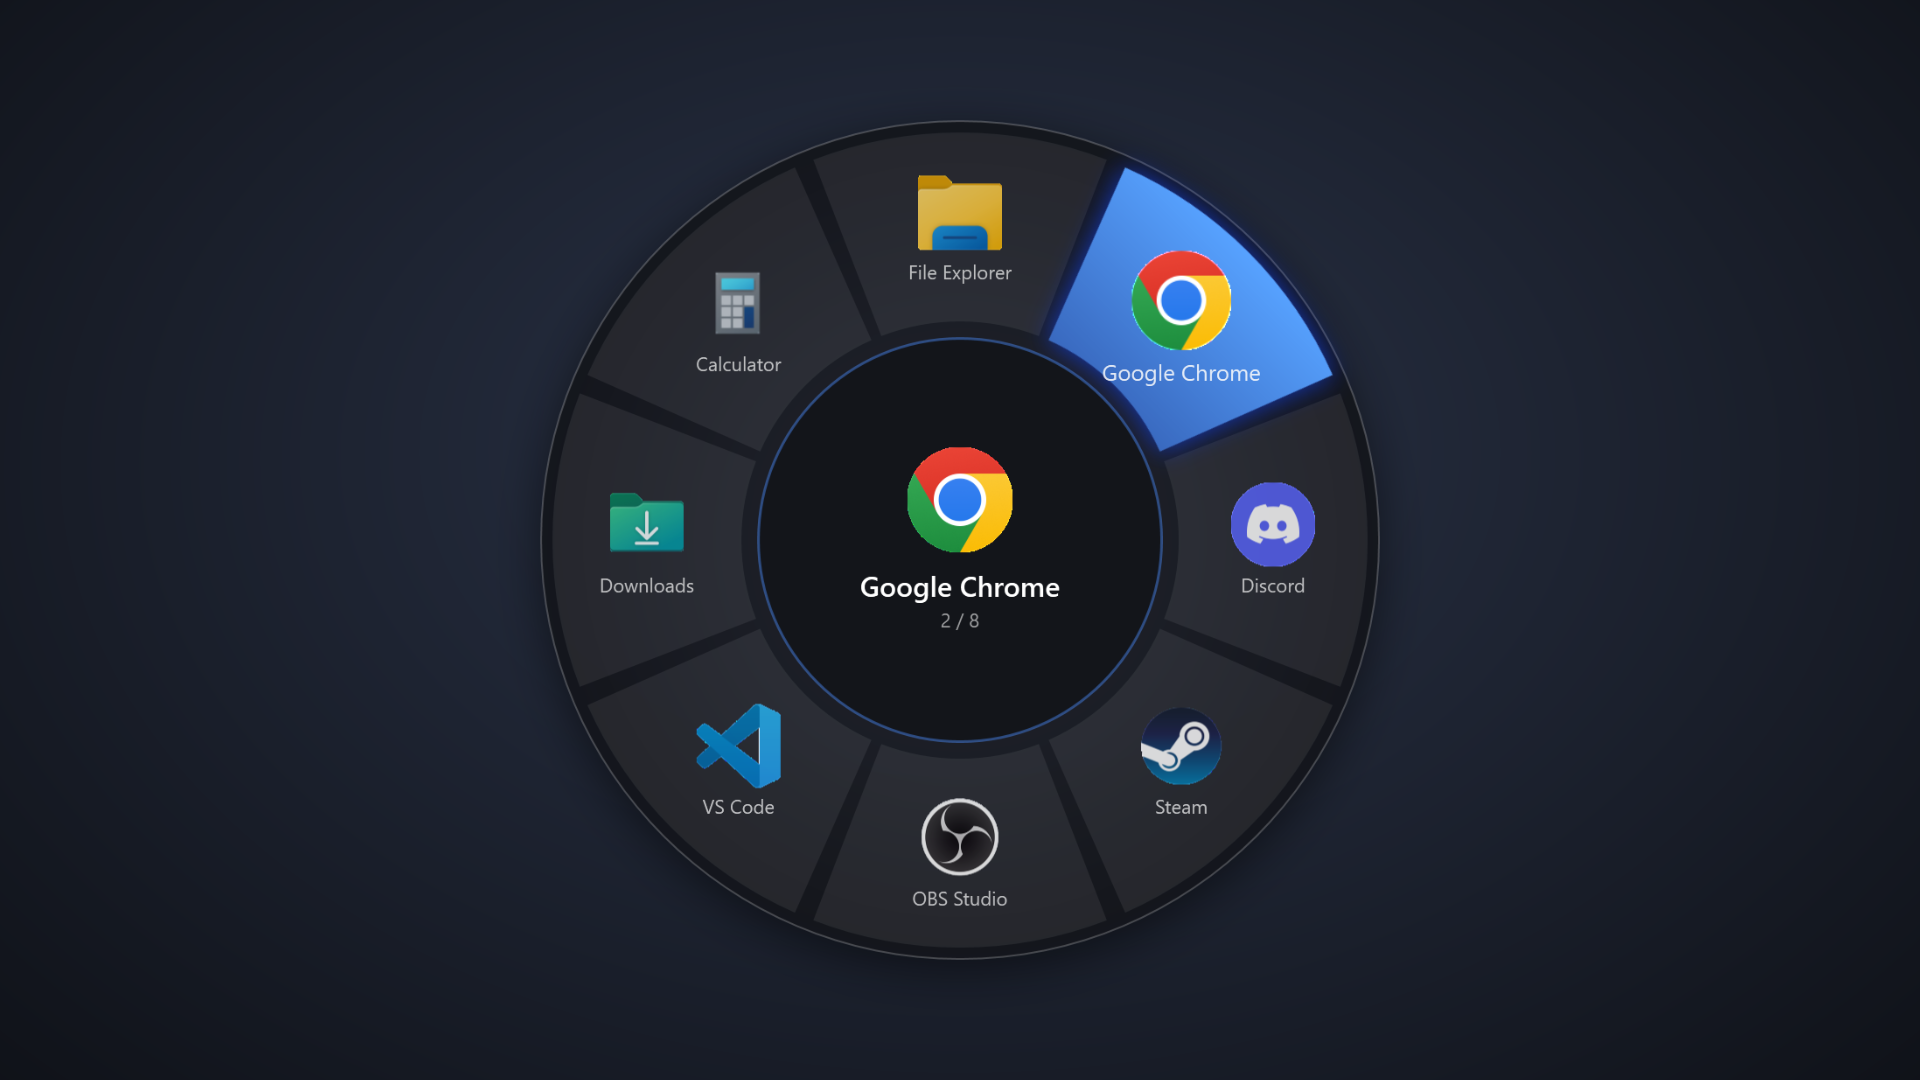
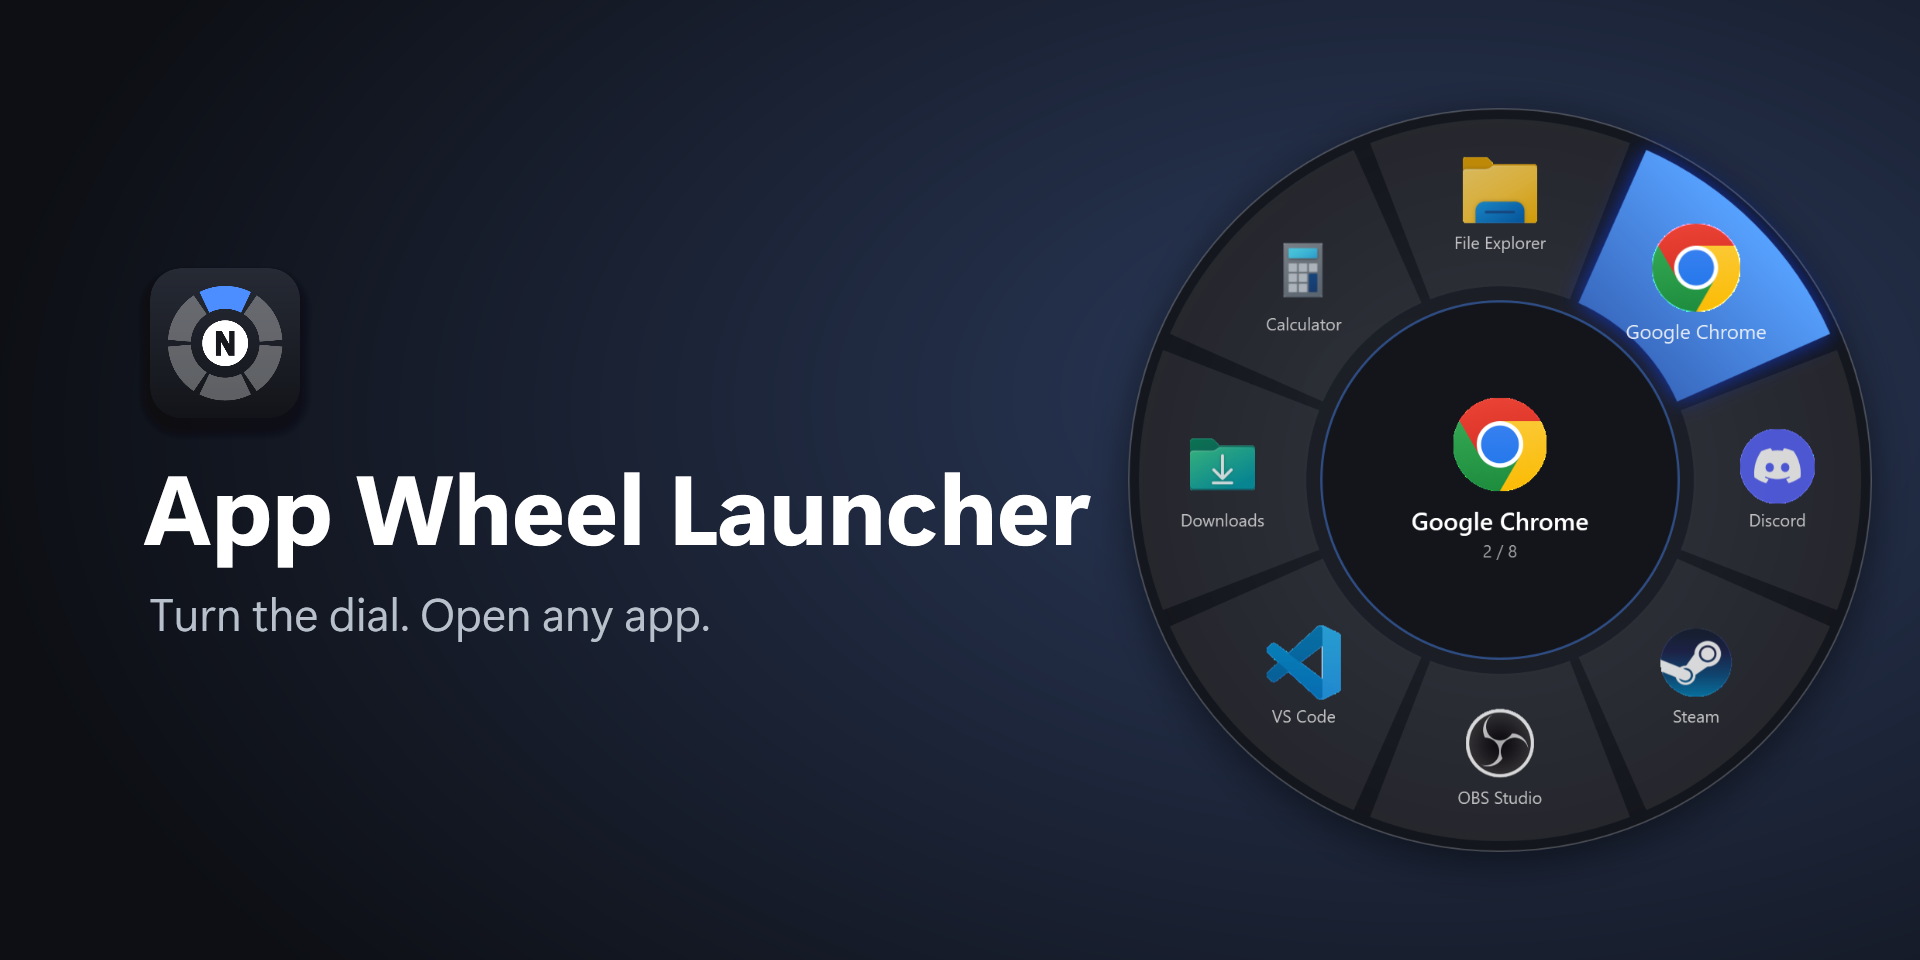
Rename to App Wheel Launcher, new images

diff --git a/README.md b/README.md
@@ -1,8 +1,8 @@
-# Dial App Launcher for Stream Deck
+# App Wheel Launcher for Stream Deck
 
 Turn a Stream Deck + dial and a launcher wheel appears on your screen. Rotate to choose an app, press to open it.
 
-![The Dial App Launcher wheel](images/hero.png)
+![The App Wheel Launcher wheel](images/hero.png)
 
 Open apps, games, files, folders, Store apps and websites from one dial. You can also put the wheel on a key of any Stream Deck model and pick with the mouse or keyboard.
 
@@ -41,14 +41,18 @@ Icons are picked up from the apps and files themselves.
 
 Each dial and key has its own list, so you can set up several wheels, e.g. one for apps, one for games and one for folders.
 
+![Small, medium and large wheels](images/sizes.png)
+
 ## Setup
 1. Drag the **App Wheel** action onto a dial (or a key).
 2. In its settings, add the apps, files, folders or links you want.
 3. Turn the dial.
 
+![The settings](images/settings.png)
+
 ## Good to know
 - The wheel can't appear over games that run in **exclusive fullscreen**. Switch the game to borderless or windowed mode.
-- On first start the plugin prepares the wheel with the .NET Framework that is part of Windows. This takes about a second and happens once. If your antivirus asks about `overlay-….exe` in `%LOCALAPPDATA%\NiQzen\DialAppLauncher`, that is the wheel.
+- On first start the plugin prepares the wheel with the .NET Framework that is part of Windows. This takes about a second and happens once. If your antivirus asks about `overlay-….exe` in `%LOCALAPPDATA%\NiQzen\AppWheelLauncher`, that is the wheel.
 - Apps set to *Run as administrator* show the Windows permission prompt.
 
 ## Requirements
